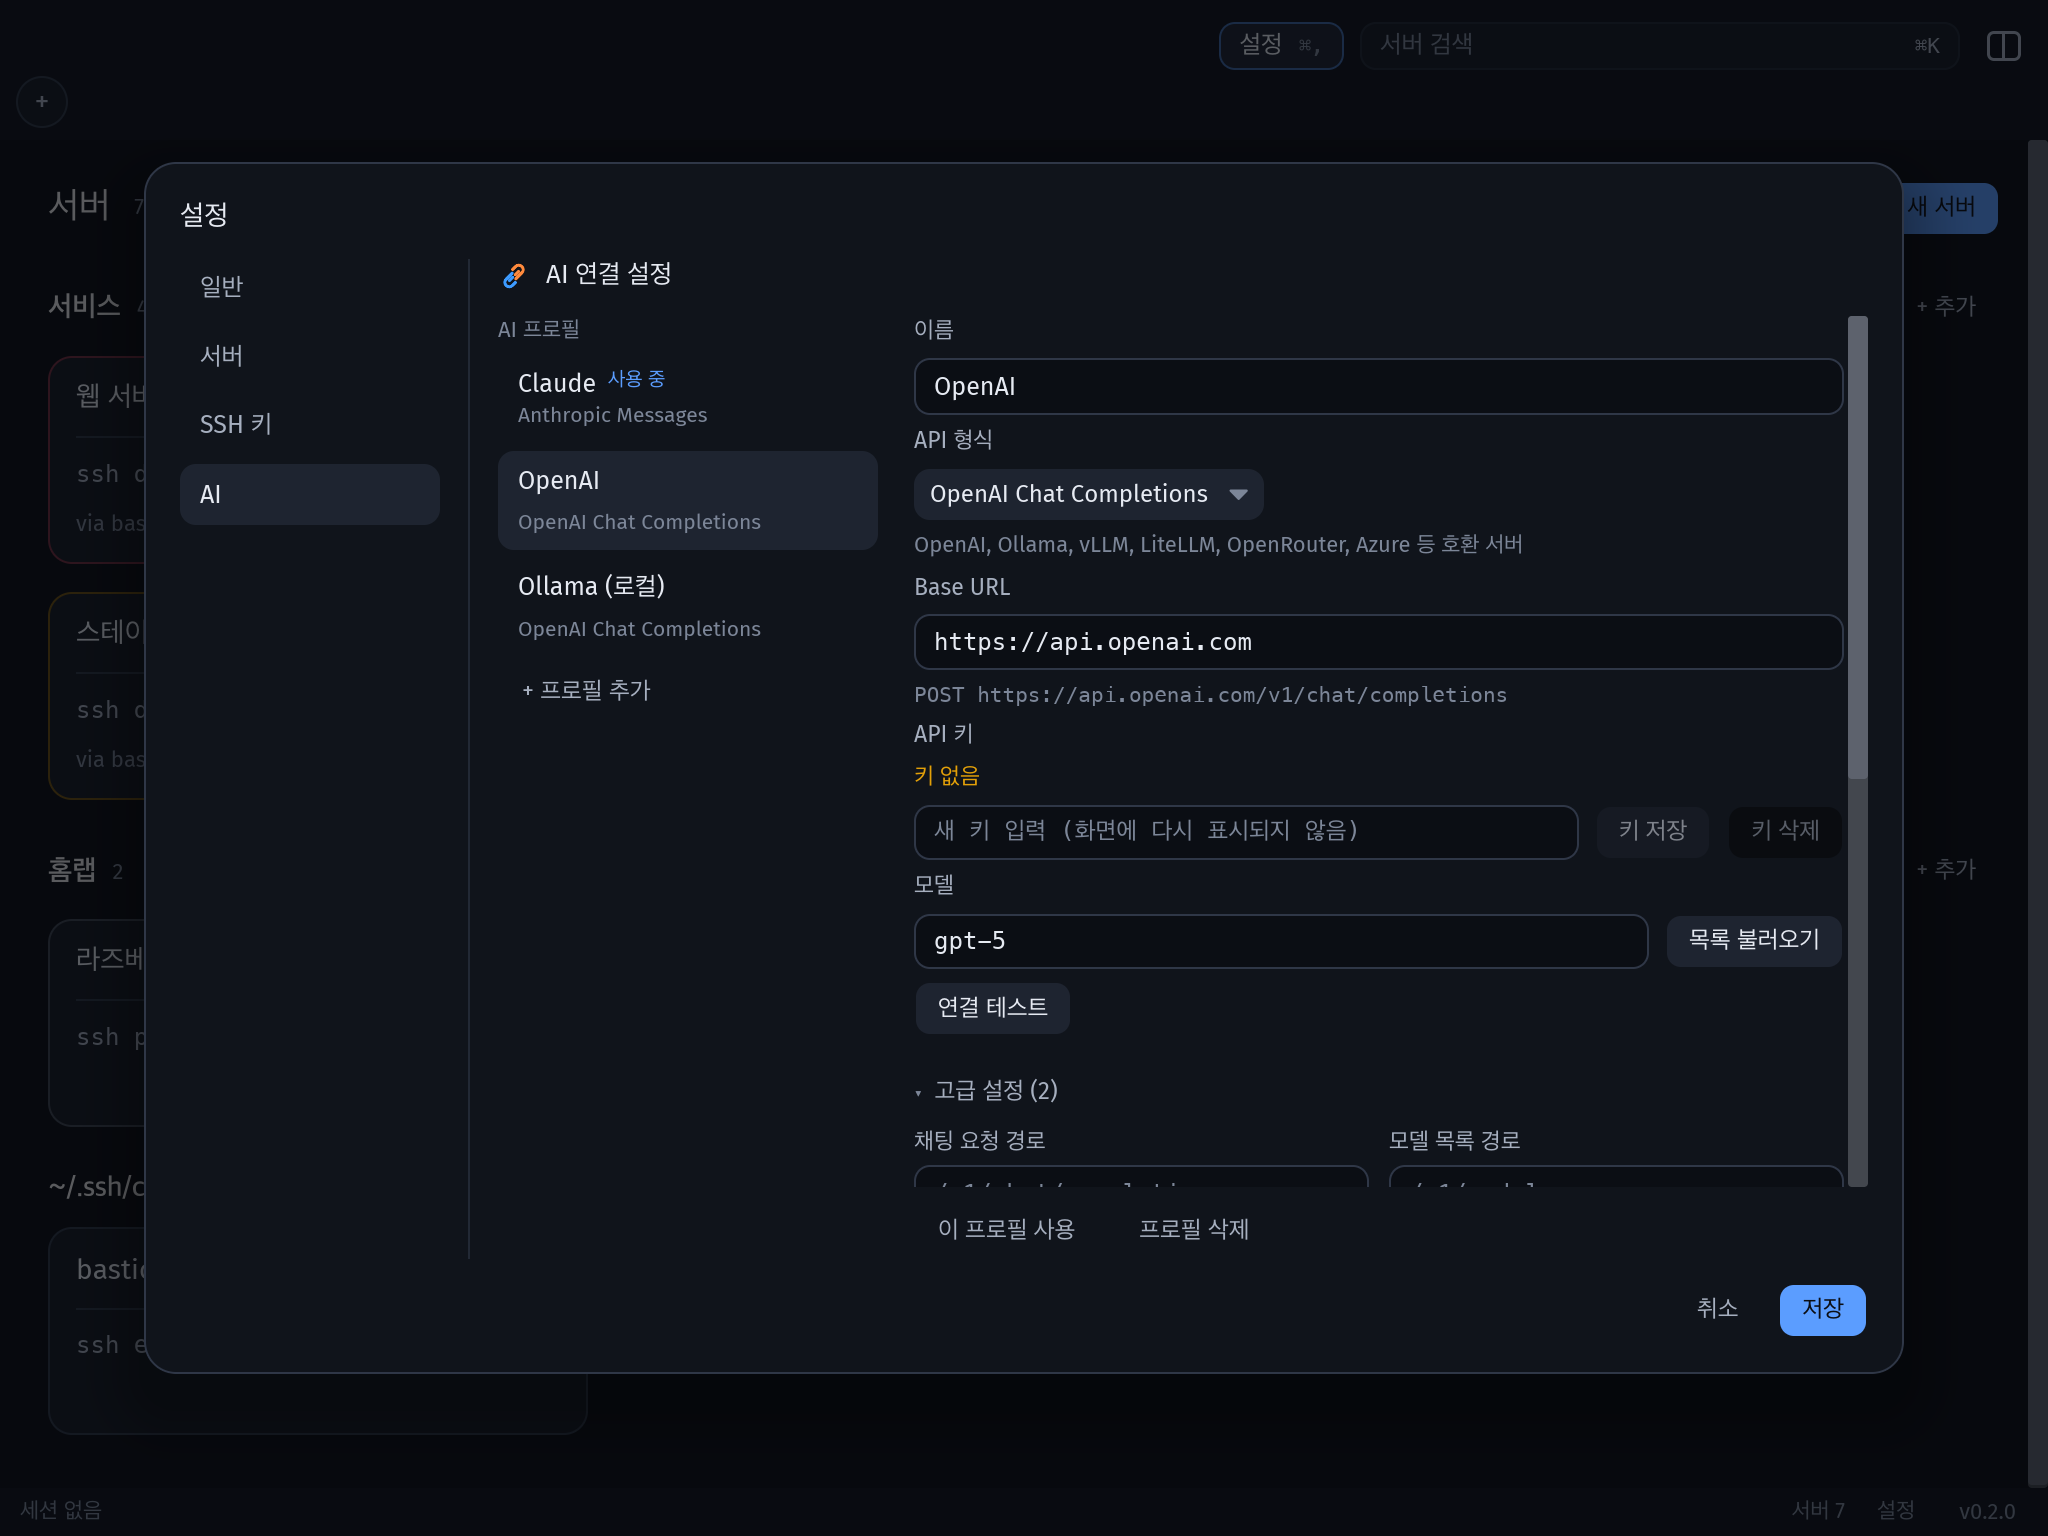
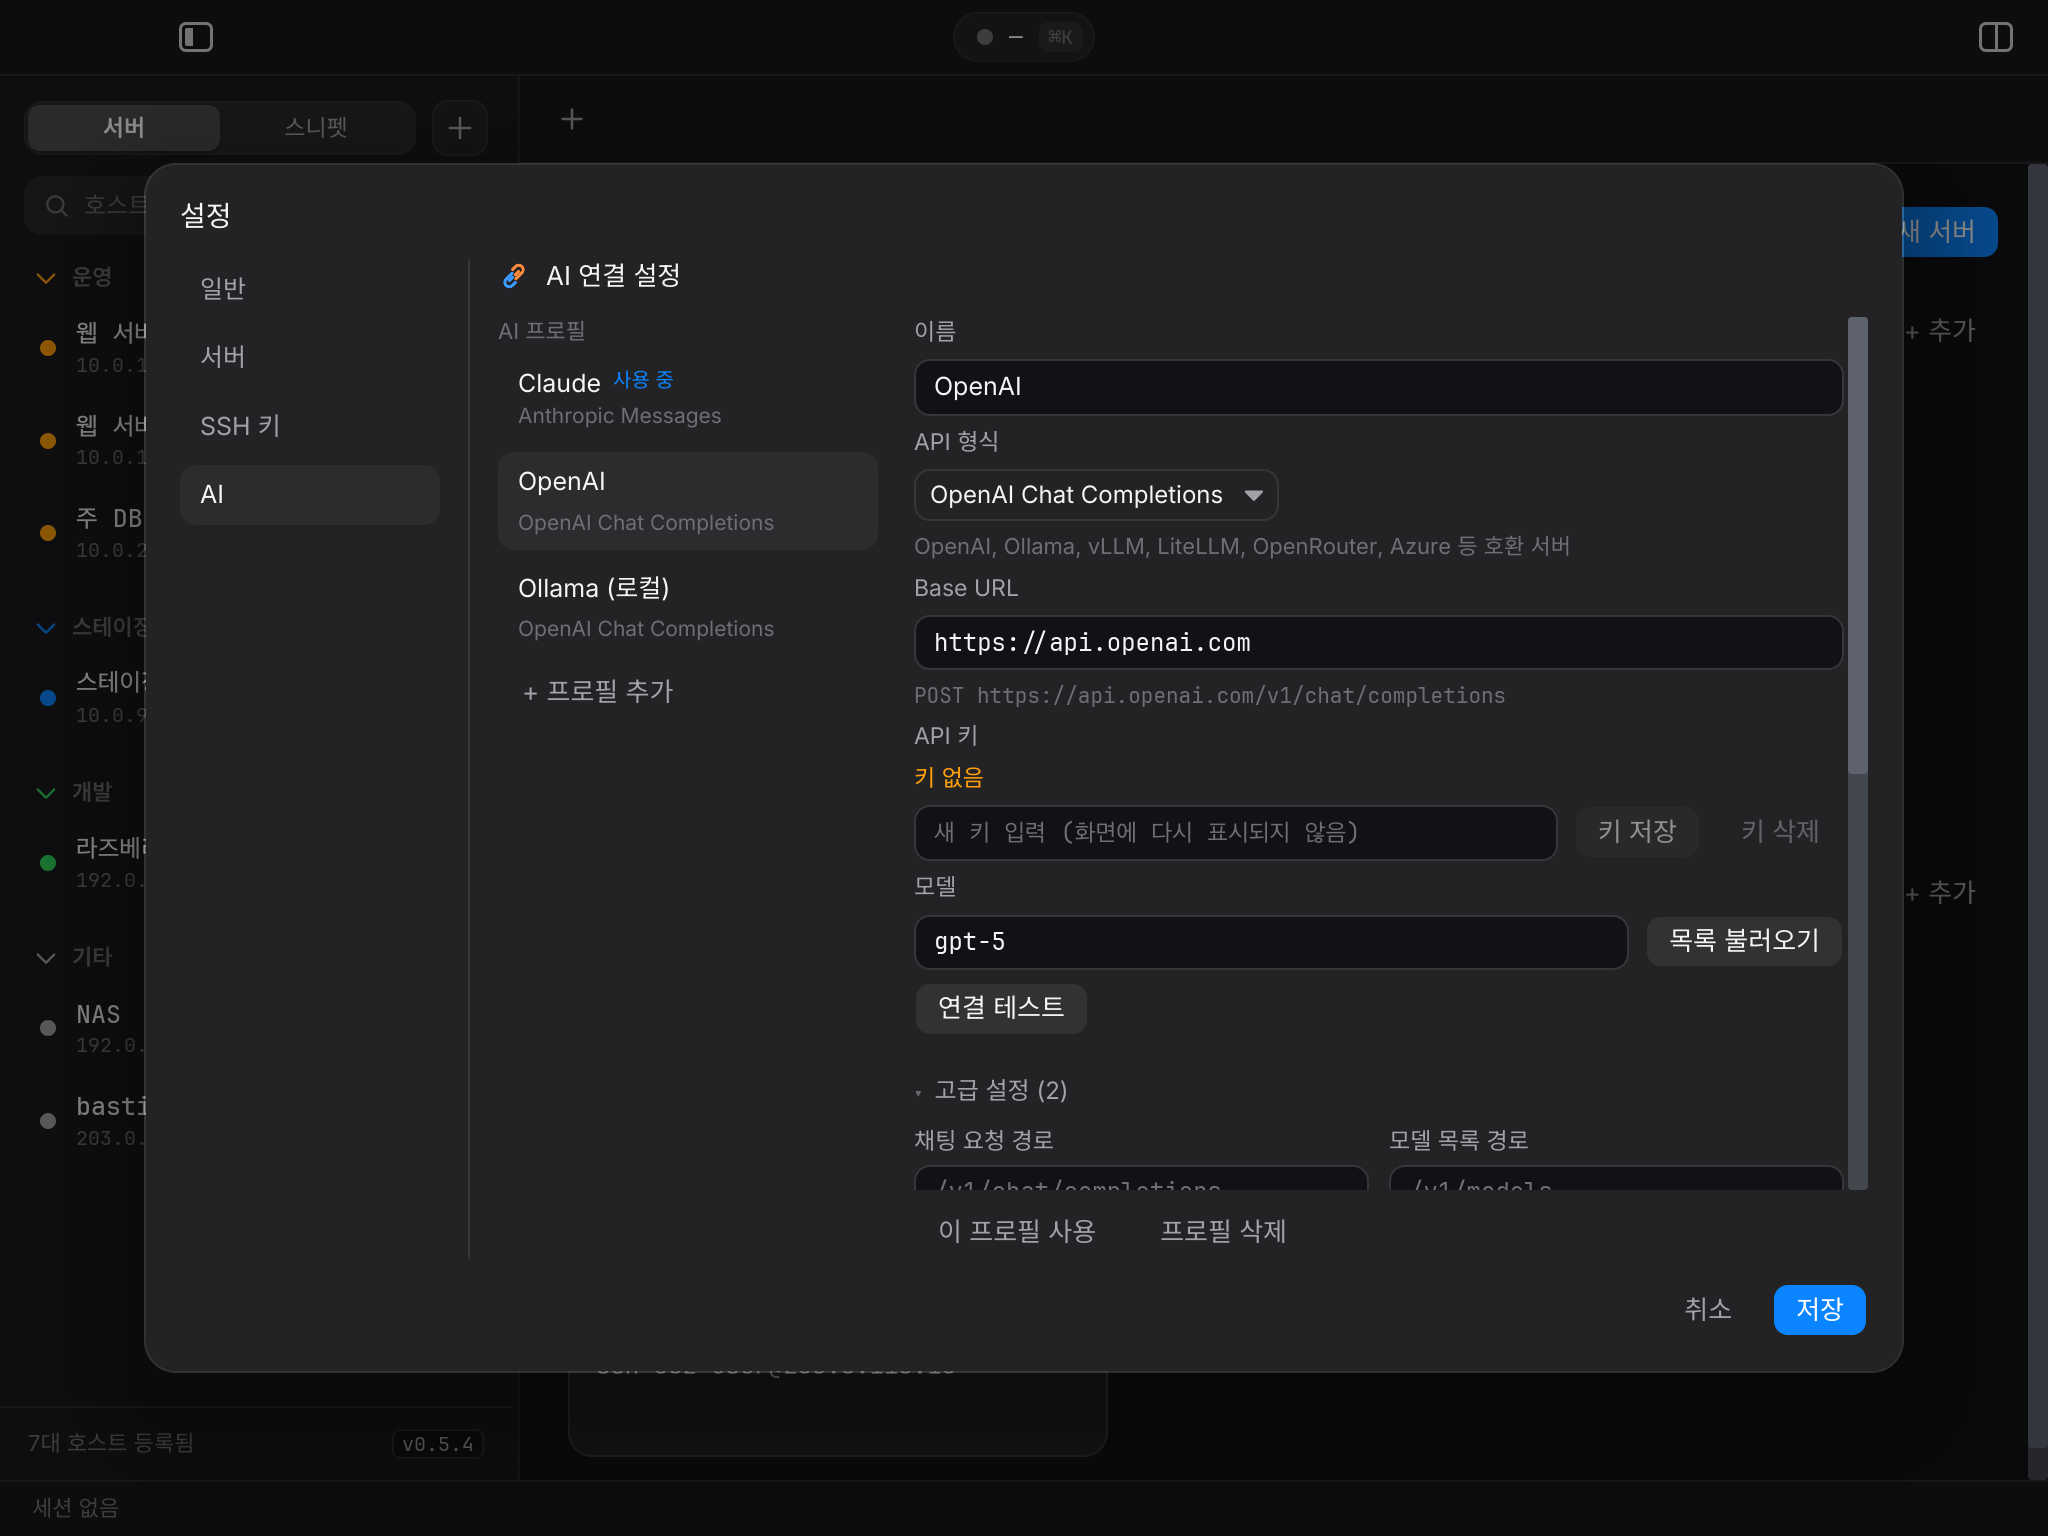
docs: update README and screenshots for 0.5.4
- Block terminal: command cards, AI analysis, inline completion, '#' to ask the AI
- Sidebar: servers / snippets tabs, resource card, translucent look, ⌘B / ⌘J
- Production lock, AI check button and quick chips; 'context link' replaces ⚡
- Update check from the About dialog; resource polling in the privacy notes
- Regenerate the README screenshots from the current UI

diff --git a/README.md b/README.md
@@ -28,6 +28,7 @@
 출력을 복사해 AI 채팅에 다시 붙여 넣어야 했습니다. CoShell은 그 왕복을 없앴습니다.
 
 - **같이 보는 AI.** AI가 조회 명령을 직접 실행합니다. 실행은 내 터미널 화면에서 그대로 보입니다.
+- **프롬프트에서 바로 질문.** 빈 프롬프트에서 `#`을 누르고 물어보면 AI에게 전달됩니다. 채팅 창으로 옮겨 갈 필요가 없습니다.
 - **말로 하는 서버 관리.** "목록 보여줘", "용량", "nginx 상태" 정도면 충분합니다. 되묻지 않고 알아서 합니다.
 - **사고를 막는 기본값.** 운영 서버, 위험한 명령, 비밀 값이 각각 따로 보호됩니다.
 - **흩어진 도구를 한곳에.** 서버 목록, 경유 서버, 포트 터널, SSH 키를 앱 안에서 관리합니다.
@@ -36,20 +37,33 @@
 
 ### <img src="crates/coshell-app/assets/features/ai-spark.svg" width="20"> 같이 일하는 AI 도우미
 
-- **직접 확인하고 설명합니다.** ⚡ 모드(기본)에서는 AI가 읽기 전용 명령을 터미널에 입력하고 결과를 읽습니다.
-  채팅에는 `⚡ ls -al · 실행함 · 14줄` 한 줄만 남고, 누르면 출력이 펼쳐집니다.
+- **직접 확인하고 설명합니다.** 입력창 아래 **컨텍스트 연동**이 켜져 있으면(기본) AI가 읽기 전용 명령을 터미널에 입력하고 결과를 읽습니다.
+  채팅에는 `>_ ls -al · ✓ 실행 완료` 카드만 남고, **해석**을 누르면 결과 설명을 다시 요청합니다.
 - **대화하듯 답합니다.** 결과를 요약하고, 필요하면 표로 정리한 뒤 다음 할 일을 제안합니다.
 - **명령은 하나씩.** 대안을 줄줄이 늘어놓지 않고, 사용자가 말한 이름을 그대로 써서 바로 실행할 수 있는 명령 하나를 줍니다.
 - **바꾸는 명령은 사람이 실행합니다.** 변경·위험 명령은 위험도 배지와 함께 ▶ 버튼으로만 실행됩니다.
+- **한 번에 점검.** 탭 막대의 **AI 진단**은 지금 서버의 디스크·메모리·부하를 바로 진단하고,
+  AI 패널 아래의 칩(Nginx 로그 정리, 프로세스 점검, 에러 로그 분석)은 자주 하는 질문을 한 번에 보냅니다.
 - **어떤 모델이든.** Anthropic(Claude) 형식과 OpenAI 형식을 모두 지원합니다.
   OpenAI, Ollama, vLLM, LiteLLM, OpenRouter, Azure, DeepSeek 같은 호환 서버도 연결할 수 있습니다.
+
+### 블록 터미널
+
+명령과 출력이 **카드 한 장**으로 묶여 보입니다. 키 입력은 그대로 셸로 가고, 화면은 실제 터미널에서 다시 읽어 그립니다.
+
+- 카드마다 누가 실행했는지(사용자 / AI), 실행 시각, 걸린 시간, 종료 코드가 붙습니다.
+- 카드에 마우스를 올리면 **AI 분석**(결과 해석 요청)과 복사 버튼이 나타납니다.
+- 입력 중에는 이 세션의 기록과 자주 쓰는 명령에서 이어질 내용을 흐리게 보여 주고, Tab이나 →로 받습니다.
+- 빈 프롬프트에서 `#`을 누르면 AI 질문 입력으로 바뀝니다. Enter로 보내고 Esc로 취소합니다.
+- vim, top, tmux처럼 화면 전체를 쓰는 프로그램은 원래 터미널 화면으로 보입니다.
+- 탭 막대에서 출력 검색, 세션 기록 내보내기(`.md`), 화면 지우기를 할 수 있습니다.
 
 ### <img src="crates/coshell-app/assets/features/safe-guard.svg" width="20"> 운영 서버를 위한 안전장치
 
 | 상황 | CoShell의 동작 |
 |---|---|
 | 조회 명령 (`df -h`, `ss -tlnp`) | AI가 바로 실행 |
-| 변경 명령 (`systemctl restart`, `apt upgrade`) | ▶를 눌러야 실행하고, **운영 서버에서는 한 번 더 확인** |
+| 변경 명령 (`systemctl restart`, `apt upgrade`) | ▶를 눌러야 실행하고, **운영 서버에서는 한 번 더 확인** (운영 안전 잠금) |
 | 위험 명령 (`rm -rf`, `kill -9`, `DROP TABLE`) | 어디서든 두 번 눌러야 실행 |
 | 끝나지 않는 명령 (`top`, `tail -f`, `watch`) | AI가 자동으로 실행하지 않음 |
 | 입력 중이거나 다른 프로그램 실행 중 | AI가 끼어들지 않음 |
@@ -58,14 +72,25 @@
 
 AI가 혼자 이어서 실행하는 명령은 질문 하나당 최대 4번이고, 20초가 지나면 기다리지 않습니다.
 
+운영 서버 탭의 상단에는 **운영 안전 잠금** 버튼이 나타납니다. 기본은 켜져 있고, 끄면 위험 명령만 한 번 더 확인합니다.
+
 ### 서버 관리
 
 ![그룹과 환경 태그로 정리된 서버 목록](docs/images/servers.png)
 
-- 서버를 **그룹**(서비스, 홈랩 등)과 **환경**(운영 / 스테이징 / 개발)으로 묶습니다. 운영 서버는 탭과 카드에 빨간 표시가 붙습니다.
+- 서버를 **그룹**(서비스, 홈랩 등)과 **환경**(운영 / 스테이징 / 개발)으로 묶습니다. 운영 서버는 탭과 카드에 주황색 표시가 붙습니다.
 - **경유 서버(ProxyJump)** 를 고르기만 하면 여러 단계 접속이 됩니다.
 - `~/.ssh/config`의 서버도 함께 보입니다. 이 파일은 읽기만 하고 수정하지 않습니다.
 - ⌘K 한 번으로 서버를 검색하고 바로 접속합니다.
+
+### 사이드바
+
+- **서버** 탭: 환경별로 묶인 서버 목록과 이름·IP 검색. 누르면 바로 접속합니다.
+- **스니펫** 탭: 디스크 사용량, 열린 포트, 최근 에러 로그 같은 조회 명령을 눌러서 터미널에 입력합니다.
+- **리소스 카드**: 지금 세션의 CPU·메모리·디스크 사용률을 5초마다 보여 줍니다.
+  macOS 로컬 셸은 활동 상태 보기·Finder와 같은 기준으로 계산합니다.
+- ⌘B로 숨기거나 보이고, 경계선을 끌어 너비를 바꿉니다. macOS에서는 바탕화면이 흐릿하게 비치는 반투명 사이드바입니다.
+- 하단 상태 표시줄(⌘J)에는 연결 상태, 경유 서버 수, 응답 지연시간이 나옵니다.
 
 ### <img src="crates/coshell-app/assets/features/port-forwarding.svg" width="20"> 블록처럼 맞추는 포트 터널
 
@@ -105,6 +130,7 @@ API 키는 설정 파일이 아니라 OS 키체인에 저장됩니다.
 
 탭(⌘⇧←/→로 순서 변경, 클릭해서 이름 변경), 텍스트 선택·복사, 출력 검색, vim·tmux 마우스 지원,
 ⌘ 클릭으로 링크 열기, 색 구성·글꼴·커서 모양 설정, 한국어·영어 UI를 지원합니다.
+글꼴(CoShell Sans, JetBrains Mono)이 앱에 포함되어 있고, macOS에서 한글 입력이 첫 글자부터 바르게 조합됩니다.
 
 ---
 
@@ -148,13 +174,15 @@ scripts/package-dmg.sh     # CoShell-<버전>-macos-arm64.dmg
 앱을 켤 때와 10분마다 새 릴리스가 있는지 확인합니다. 새 버전이 있으면 상태바에 `⬆ 0.x.x 업데이트`가 나타나고,
 누르면 DMG를 내려받아 **릴리스에 함께 올라간 SHA-256과 대조한 뒤** 앱을 바꾸고 다시 시작합니다.
 해시가 맞지 않거나 해시가 없으면 설치하지 않습니다.
+**CoShell 정보** 창을 열면 자동 확인을 꺼 두었더라도 그 자리에서 한 번 확인합니다.
 Windows·Linux에서는 업데이트 버튼이 릴리스 페이지를 열어 줍니다.
 
 ### AI 연결 (1분)
 
 1. ⌘, → **AI** → 사용할 프로필 선택 (Claude / OpenAI / Ollama, 또는 `+ 프로필 추가`)
 2. API 키 입력 → **키 저장** → **연결 테스트**
-3. ⌘L로 AI 패널을 열고 물어보세요. 입력창 아래 ⚡가 켜져 있으면 AI가 직접 확인합니다.
+3. ⌘L로 AI 패널을 열고(처음에는 닫혀 있습니다) 물어보세요. 터미널 프롬프트에서 `#`으로 시작해도 됩니다.
+   입력창 아래 **컨텍스트 연동**이 켜져 있으면 AI가 직접 확인합니다.
 
 Ollama처럼 내 컴퓨터에서 돌리는 모델은 키 없이 쓸 수 있습니다.
 
@@ -169,7 +197,11 @@ macOS 기준입니다. Windows·Linux에서는 ⌘ 대신 Ctrl을 누릅니다.
 | ⌘T / ⌘W | 새 로컬 셸 / 탭 닫기 |
 | ⌘1–9, ⌘⇧[ / ⌘⇧] | 탭 선택, 이전 / 다음 탭 |
 | ⌘⇧← / ⌘⇧→ | 탭 순서 변경 |
+| ⌘B | 서버 사이드바 보기 / 숨기기 |
 | ⌘L | AI 패널 열기 / 닫기 |
+| ⌘J | 상태 표시줄 보기 / 숨기기 |
+| `#` (빈 프롬프트) | AI에게 질문 |
+| Tab / → | 흐리게 보이는 자동완성 받기 |
 | ⌘F, ⌘G / ⌘⇧G | 출력 검색, 이전 / 다음 결과 |
 | ⌘C / ⌘V | 복사 / 붙여넣기 |
 | ⌘+ / ⌘− / ⌘0 | 글꼴 크기 |
@@ -189,7 +221,8 @@ macOS 기준입니다. Windows·Linux에서는 ⌘ 대신 Ctrl을 누릅니다.
 | 서버 비밀번호 · 키 암호 · API 키 | OS 키체인 (파일에는 저장하지 않음) |
 
 - `~/.ssh/config`와 `~/.ssh`의 키는 읽기만 합니다. `known_hosts`에는 호스트 키를 신뢰해서 저장할 때만 씁니다.
-- 터미널 출력은 AI가 직접 실행한 명령의 결과이거나 사용자가 📎로 첨부한 경우에만 AI로 전송되고, 그 전에 비밀 값을 가립니다.
+- 터미널 출력은 AI가 직접 실행한 명령의 결과이거나 사용자가 📎로 첨부하거나 블록의 **AI 분석**을 누른 경우에만 AI로 전송되고, 그 전에 비밀 값을 가립니다.
+- 리소스 카드는 접속한 서버에서 5초마다 읽기 전용 명령(`/proc/stat`, `/proc/meminfo`, `df` 등)을 별도 SSH 채널로 실행합니다. 터미널 화면이나 셸 기록에는 남지 않습니다.
 - 텔레메트리는 없습니다. 네트워크 요청은 접속하는 서버, 직접 설정한 AI 주소, 그리고 업데이트 확인용 GitHub(`api.github.com`, 10분마다 최신 릴리스 조회)로만 갑니다. 업데이트 확인은 설정 › 일반에서 끌 수 있습니다.
 
 ## 구조
@@ -199,7 +232,8 @@ macOS 기준입니다. Windows·Linux에서는 ⌘ 대신 Ctrl을 누릅니다.
 | `coshell-term` | 터미널 에뮬레이터 코어 (alacritty_terminal), 로컬 PTY |
 | `coshell-ssh` | SSH 접속, 경유 체인, 호스트 키 검증, 키 인증, 포트 포워딩 |
 | `coshell-ai` | Anthropic · OpenAI 형식 클라이언트, 프로필, 비밀 값 마스킹 |
-| `coshell-app` | iced UI 애플리케이션 |
+| `coshell-app` | iced UI 애플리케이션 (블록 뷰, 사이드바, 리소스 수집 포함) |
+| `vendor/winit` | macOS 한글 입력 패치를 넣은 winit 0.30.13 ([COSHELL_PATCH.md](vendor/winit/COSHELL_PATCH.md)) |
 
 ```bash
 cargo test --workspace
